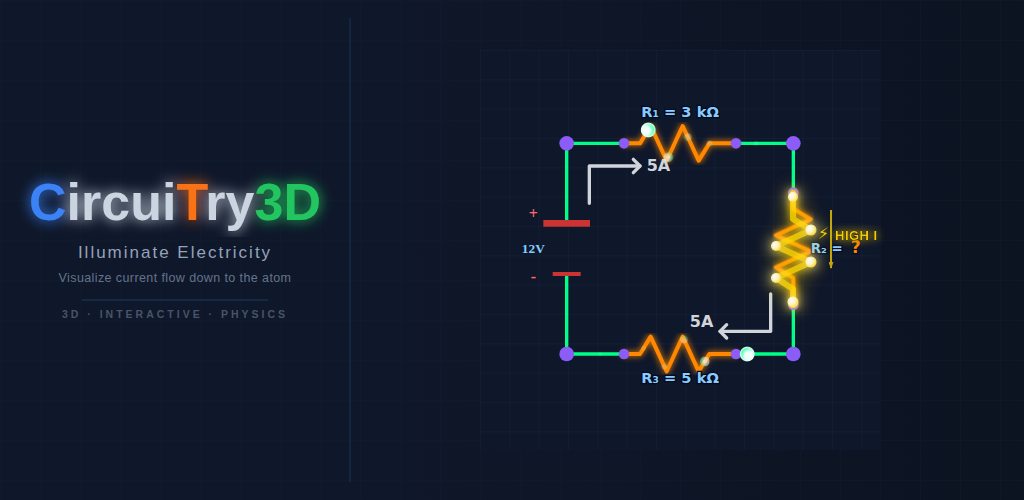
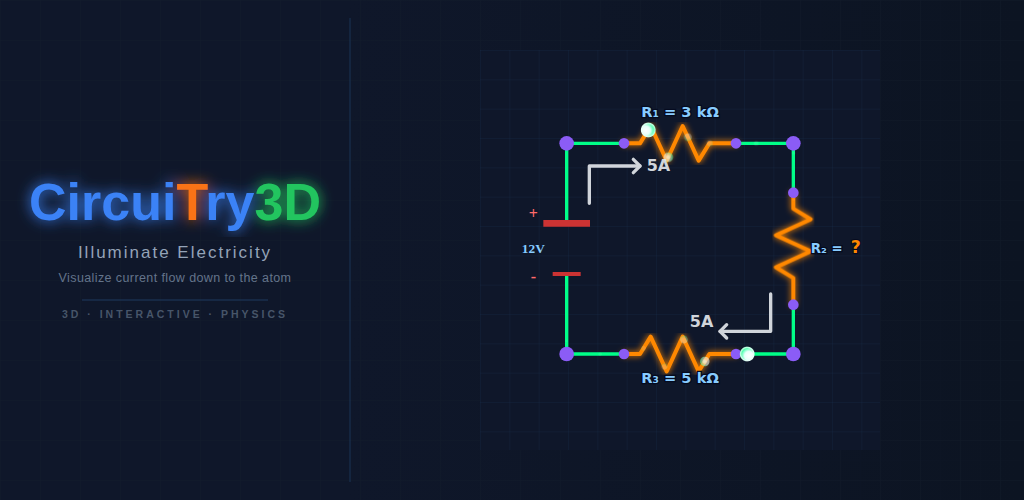
Update feature graphic: blue lettering for CircuiTry3D text, remove high-current overlay

Changed region(s): [[0.7188, 0.36, 0.875, 0.63], [0.0625, 0.36, 0.25, 0.48]]

diff --git a/scripts/generate-feature-graphic.js b/scripts/generate-feature-graphic.js
@@ -2,14 +2,10 @@
 /**
  * Generates the Play Store feature graphic (1024×500 px) for CircuiTry3D.
  *
- * The graphic embeds public/circuit-logo.svg directly in the right panel and
- * overlays a "high-current" treatment on R2 (the right-side vertical resistor):
- *   • Extra-bright gold glow on the R2 zigzag
- *   • Hot photon particles placed along R2's zigzag path
- *   • A "HIGH I ⚡" callout annotation
+ * The graphic embeds public/circuit-logo.svg directly in the right panel.
  *
  * Left panel shows the CircuiTry3D brand name with its signature letter colors
- * (C = blue, T = orange, 3D = green) and the "Illuminate Electricity" tagline.
+ * (Circui = blue, T = orange, ry = blue, 3D = green) and the "Illuminate Electricity" tagline.
  *
  * Uses Playwright (already in devDependencies) to render the HTML+SVG to PNG.
  *
@@ -47,38 +43,8 @@ function extractSvgInner(svg) {
 
 /**
  * Build the full HTML page that Playwright will render.
- *
- * Circuit-logo layout (300×300 viewBox, scaled to 400×400 at x=480, y=50):
- *   scale = 400/300 = 1.333…
- *   Inner coord (x_i, y_i) → outer coord (480 + x_i·4/3, 50 + y_i·4/3)
- *
- * R2 (right vertical resistor) in the circuit-logo 300×300 space:
- *   Centre: (235, 149).  Junctions: top (235, 107), bottom (235, 191).
- *   Zigzag (after transform="translate(235,149) rotate(90)"):
- *     inner global path ≈ (235,191)→(235,179)→(222,171)→(248,159)
- *                          →(222,147)→(248,135)→(235,127)→(235,107)
- *   Outer SVG path (×4/3 + offset):
- *     "793,305 793,289 776,278 811,262 776,246 811,230 793,219 793,193"
  */
 function makeHtml(svgInner) {
-  // Pre-computed R2 zigzag points in outer (1024×500) coordinate space.
-  const r2Outer = '793,305 793,289 776,278 811,262 776,246 811,230 793,219 793,193';
-
-  // Photon particles placed exactly at each vertex of R2's zigzag path.
-  const r2Photons = [
-    { cx: 793, cy: 302, r: 5.5 },   // near bottom junction
-    { cx: 776, cy: 278, r: 5   },   // left peak 1
-    { cx: 811, cy: 262, r: 5.5 },   // right peak 1
-    { cx: 776, cy: 246, r: 5   },   // left peak 2
-    { cx: 811, cy: 230, r: 5.5 },   // right peak 2
-    { cx: 793, cy: 197, r: 5   },   // near top junction
-  ];
-
-  const photonCircles = r2Photons
-    .map(({ cx, cy, r }) =>
-      `<circle cx="${cx}" cy="${cy}" r="${r}" fill="url(#fg-hotPhoton)" filter="url(#fg-brightPhotonGlow)" opacity="0.95"/>`)
-    .join('\n    ');
-
   return `<!doctype html>
 <html>
 <head>
@@ -111,26 +77,6 @@ function makeHtml(svgInner) {
       <path d="M 40 0 L 0 0 0 40" fill="none" stroke="#15202e" stroke-width="1"/>
     </pattern>
 
-    <!-- Glow for the R2 high-current overlay polyline -->
-    <filter id="fg-r2HighGlow" x="-200%" y="-80%" width="500%" height="260%">
-      <feGaussianBlur stdDeviation="11" result="big"/>
-      <feGaussianBlur stdDeviation="4"  result="med" in="SourceGraphic"/>
-      <feMerge>
-        <feMergeNode in="big"/>
-        <feMergeNode in="med"/>
-        <feMergeNode in="SourceGraphic"/>
-      </feMerge>
-    </filter>
-
-    <!-- Glow for hot photon particles (high-current branch) -->
-    <filter id="fg-brightPhotonGlow" x="-300%" y="-300%" width="700%" height="700%">
-      <feGaussianBlur stdDeviation="7" result="blur"/>
-      <feMerge>
-        <feMergeNode in="blur"/>
-        <feMergeNode in="SourceGraphic"/>
-      </feMerge>
-    </filter>
-
     <!-- Title text glow -->
     <filter id="fg-titleGlow">
       <feGaussianBlur stdDeviation="7" result="blur"/>
@@ -139,29 +85,6 @@ function makeHtml(svgInner) {
         <feMergeNode in="SourceGraphic"/>
       </feMerge>
     </filter>
-
-    <!-- Callout text glow -->
-    <filter id="fg-calloutGlow" x="-40%" y="-100%" width="180%" height="300%">
-      <feGaussianBlur stdDeviation="4" result="blur"/>
-      <feMerge>
-        <feMergeNode in="blur"/>
-        <feMergeNode in="SourceGraphic"/>
-      </feMerge>
-    </filter>
-
-    <!-- Hot photon fill: white core → warm gold rim -->
-    <radialGradient id="fg-hotPhoton" cx="35%" cy="35%" r="80%">
-      <stop offset="0%"   stop-color="#ffffff"/>
-      <stop offset="45%"  stop-color="#fff7d0"/>
-      <stop offset="100%" stop-color="#ffd700"/>
-    </radialGradient>
-
-    <!-- Current-direction arrowhead (gold) -->
-    <marker id="fg-arrowGold"
-            markerWidth="7" markerHeight="5" refX="6" refY="2.5"
-            orient="auto" markerUnits="userSpaceOnUse">
-      <path d="M0,0 L0,5 L7,2.5 Z" fill="#ffd700" opacity="0.9"/>
-    </marker>
 
   </defs>
 
@@ -184,9 +107,8 @@ function makeHtml(svgInner) {
         font-size="52" font-weight="900"
         text-anchor="middle"
         filter="url(#fg-titleGlow)">
-    <tspan fill="#3b82f6">C</tspan><tspan fill="#cbd5e1">ircu</tspan><tspan
-           fill="#cbd5e1">i</tspan><tspan fill="#f97316">T</tspan><tspan
-           fill="#cbd5e1">ry</tspan><tspan fill="#22c55e">3D</tspan>
+    <tspan fill="#3b82f6">Circui</tspan><tspan fill="#f97316">T</tspan><tspan
+           fill="#3b82f6">ry</tspan><tspan fill="#22c55e">3D</tspan>
   </text>
 
   <!-- Tagline -->
@@ -214,7 +136,7 @@ function makeHtml(svgInner) {
 
 
   <!-- ═══════════════════════════════════════════════════════════
-       RIGHT PANEL  (x: 350 – 1024)  –  Circuit logo + high-current overlay
+       RIGHT PANEL  (x: 350 – 1024)  –  Circuit logo
 
        circuit-logo.svg has viewBox="0 0 300 300".
        Rendered at width=400, height=400 positioned at x=480, y=50.
@@ -226,47 +148,6 @@ function makeHtml(svgInner) {
        xmlns="http://www.w3.org/2000/svg">
     ${svgInner}
   </svg>
-
-  <!-- ── HIGH-CURRENT overlay on R2 (drawn in outer 1024×500 space) ──
-       R2 zigzag outer points: ${r2Outer}                              -->
-
-  <!-- Bright gold re-draw of R2 zigzag with intense glow -->
-  <polyline
-    points="${r2Outer}"
-    fill="none"
-    stroke="#ffd700"
-    stroke-width="6"
-    stroke-linecap="round"
-    stroke-linejoin="round"
-    filter="url(#fg-r2HighGlow)"
-    opacity="0.88"/>
-
-  <!-- Hot photon particles along R2's zigzag -->
-  ${photonCircles}
-
-  <!-- ── HIGH I callout to the right of R2 ── -->
-  <!-- lightning bolt -->
-  <text x="818" y="239"
-        font-family="system-ui,sans-serif"
-        font-size="16" fill="#ffd700"
-        text-anchor="start"
-        filter="url(#fg-calloutGlow)"
-        opacity="0.95">⚡</text>
-
-  <!-- label text -->
-  <text x="835" y="240"
-        font-family="'Inter','Segoe UI',Arial,Helvetica,sans-serif"
-        font-size="13" font-weight="700" letter-spacing="0.5"
-        fill="#ffd700" text-anchor="start"
-        stroke="#050b1f" stroke-width="1.2" paint-order="stroke fill"
-        filter="url(#fg-calloutGlow)"
-        opacity="0.95">HIGH I</text>
-
-  <!-- downward current-direction arrow alongside R2 -->
-  <line x1="831" y1="210" x2="831" y2="268"
-        stroke="#ffd700" stroke-width="2"
-        marker-end="url(#fg-arrowGold)"
-        opacity="0.75"/>
 
 </svg>
 </body>
